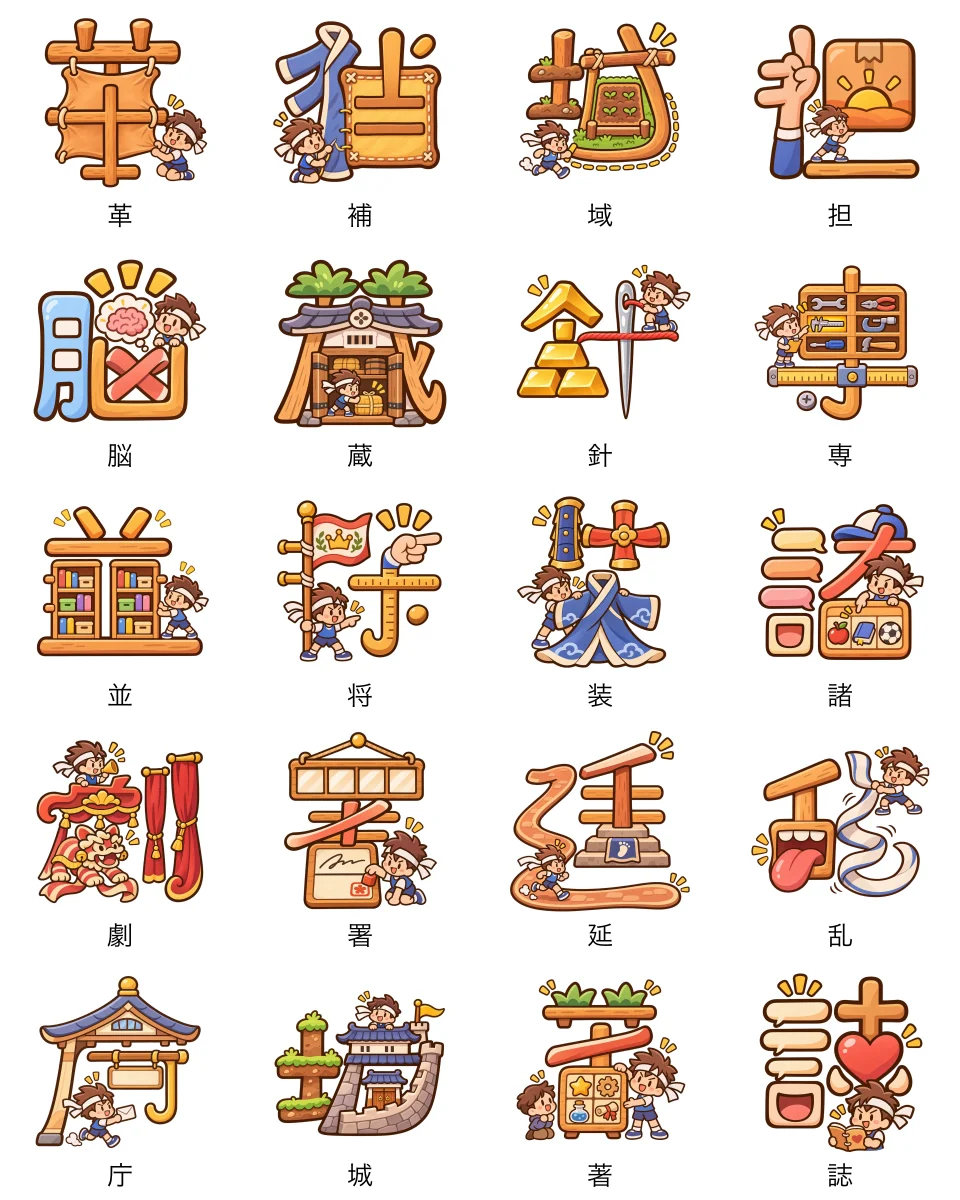
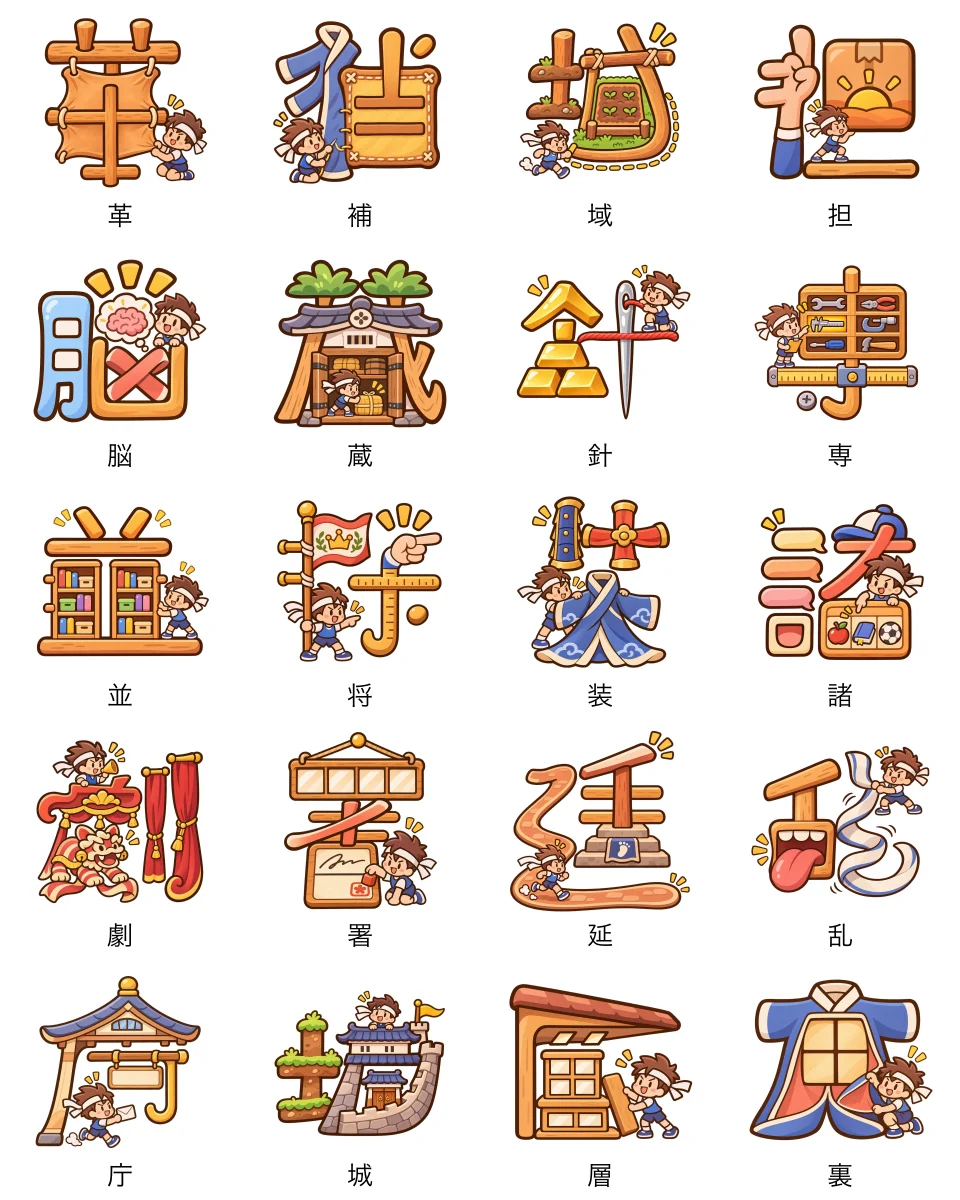
Complete and wire all N2 mnemonic illustrations

Changed region(s): [[0.5312, 0.8017, 0.7188, 0.9867], [0.7812, 0.8017, 0.9688, 0.9867]]

diff --git a/art-source/N2_PROGRESS.md b/art-source/N2_PROGRESS.md
@@ -1,11 +1,9 @@
 # N2 illustration progress
 
-The N2 deck contains 367 cards. The branch `codex/n2-mnemonic-art` has 253 accepted illustrations and 114 cards left to illustrate. `n2-shape-briefs.json` has a shape brief for every card in deck order.
-
-Cards 1–218 have illustrations. Resume with 層 (card 219), then 裏 (card 220), and continue with missing cards in deck order. Some later cards through 爆 (card 269) already have illustrations. Check for a source in `art-source/hand/` before generating a card.
+All 367 N2 cards have accepted transparent WebP illustrations on `codex/n2-mnemonic-art`. `n2-shape-briefs.json` has a shape brief for every card in deck order. The finished illustrations appear in 19 contact sheets under `art-source/review/`.
 
 Use the built-in image generator with true transparency. Use only the user's `before.png`, `Cheerful Nine Kanji Mascot_gbc.png`, and `yasumu.png` in `/Users/andriastaniwan/Downloads/Sonna Kanji new images/` as style references. The briefs describe shape mnemonics. The monochrome book examples inform the connection between pictures and kanji components.
 
 Import accepted assets with `node scripts/art/import-generated.mjs N2 KANJI PNG`. Review the result at flashcard size with `node scripts/art/make-contact-sheets.mjs N2` and run `node scripts/art/check-hand-art.mjs N2`. `npm run art` wires those sources into the deck, then `npm test` and `npm run build` verify the integration.
 
-On 22 November 2026, the second batch added 165 illustrations, including the corrected 州 and the revised 印 with a blank wax seal. All 253 sources passed the flashcard review and transparency check. The generator reported a usage limit reset on Monday, 23 November 2026 at 9:23 pm Sydney time.
+The final batch on 23 November 2026 added 114 illustrations. The final review corrected the cutout edge on 硬, joined the middle bay to the frame on 巨, and aligned the two wings on 濯. All 367 illustrations are wired into the built N2 cards.

diff --git a/README.md b/README.md
@@ -3,8 +3,8 @@
 Kanji mnemonics for the JLPT: a static, SEO-friendly Astro site with one page per
 kanji, swipeable cards and browser-based spaced repetition (FSRS). N5 and N4 are
 hand-tuned. N3, N2 and N1 are in beta: their mnemonics are first drafts. All 367
-N3 cards and 253 of 367 N2 cards have custom illustrations. Other beta drawings are generated by
-`scripts/art/auto-scenes.mjs`.
+N3 cards and all 367 N2 cards have custom illustrations. The N1 drawings are
+generated by `scripts/art/auto-scenes.mjs`.
 There is no database. Review progress lives in the visitor's `localStorage`.
 
 ```bash
